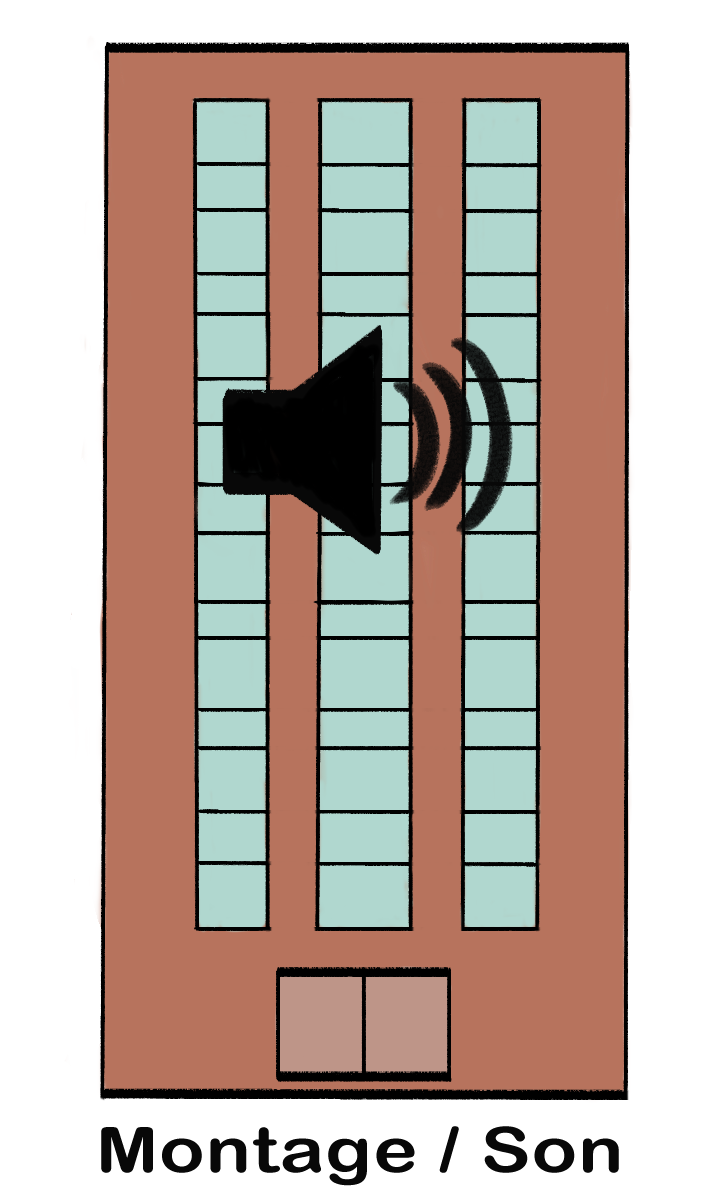
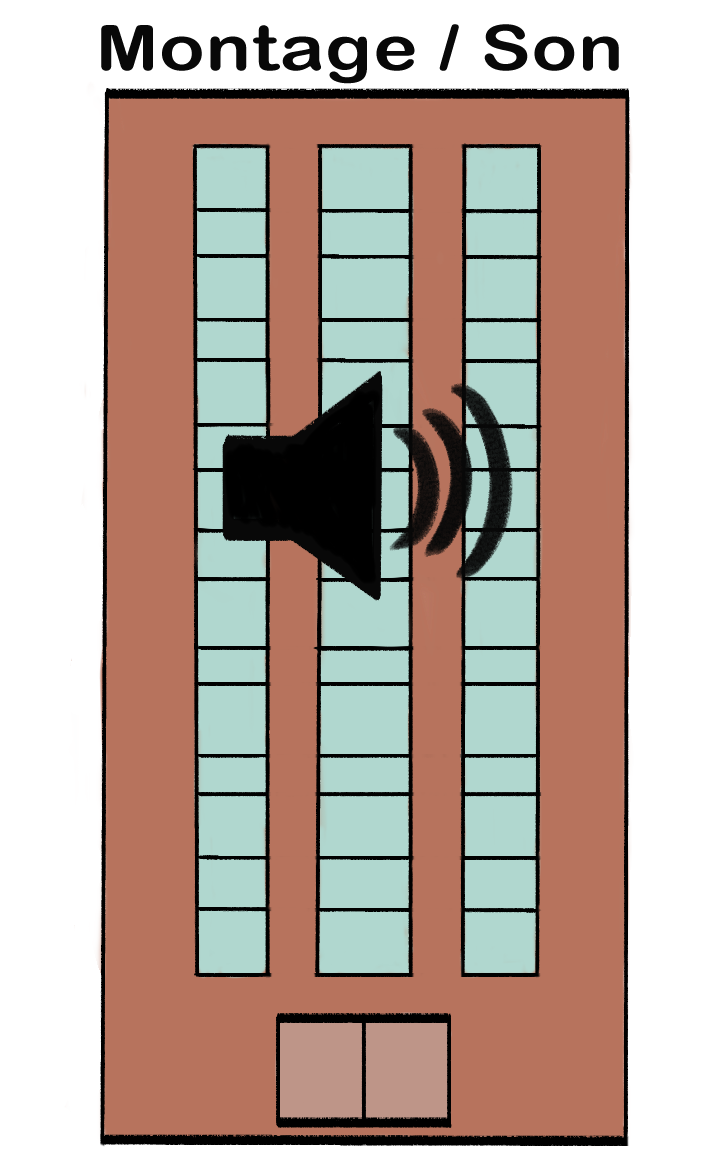
Finalisation de la planète audiovisuel

diff --git a/projet-astronommi/code_principal/autres_pages/planete_audio/assets/styles.css b/projet-astronommi/code_principal/autres_pages/planete_audio/assets/styles.css
@@ -376,13 +376,17 @@ body {
 
 /* Gérer le reste */
 
-.fusee{
+/* Première slide avec fusée et perso */
 
-    /* overflow: hidden;
-    height: 300vh; */
-    height:120vh;
-    width: 30vw;
-    position: absolute;
+.slide-1{
+    width: 100vw;
+    height: 100vh;
+    display: flex;
+    flex-direction: row;
+}
+
+.fusee{
+    width: 35vw;
     bottom: 25px;
     z-index: 3;
 }
@@ -392,79 +396,119 @@ body {
     color: white;
     text-shadow: 3px 3px #610000;
     font-size: 2.5rem;
-    top: 1vh;
+    top: 2vh;
     left: 30vw;
     z-index: 3;
     height: 200px;
 }
-.presentation{
-    color: #fff;
-    font-size: 0.6875rem;
-    font-family: Arial, Helvetica, sans-serif;
+
+.slide-1 div{
+    box-sizing: border-box;
     text-align: center;
     display: flex;
-    align-items: center;
     justify-content: center;
-    display: inline-block;
-    width: 45vw;
-    height: 45vh;
-    padding: 10vh;
-    position: absolute;
+    align-items: center;
+    width: max-content;
+    height: max-content;
+    position: relative;
     top: 30vh;
-    left: 30vw;
     z-index: 3;
     border-radius: 72% 28% 70% 50% / 57% 70% 50% 63% ;
     background-color: rgba(26, 0, 0, 0.8);
-
-
     border: #630000a6 solid;
     box-shadow: 0px 0px 50px 15px #630000a6;
+    margin-right: 6vw;
+    padding:1vw;
+            padding: 4vw;
+}
+
+.presentation{
+    color: #fff;
+    font-size: 0.6875rem;
+    font-family: "M PLUS Rounded 1c", sans-serif;
+
+}
+
+@media screen and (min-width: 1400px) {
+    .presentation{
+        font-size: 0.9rem;
+    }
 }
 
 .perso {
     position: relative;
-    top: 27%;
-    left:80vw;
-    bottom: 0;
+    top: 37%;
     z-index: 1;
-    height: 70vh;
+    height: 60vh;
+}
+
+/* Deuxième slide avec batiments son et image */
+
+.slide-2{
+    width: 100vw;
+    height: 100vh;
+    z-index: 5;
 }
 
 .batiments {
     position: relative;
-    margin: 20px;
-    left: 90vw;
-    bottom: 20%;
-    z-index: 1;
-    height: 40vh;
+    /* margin: 20px; */
+    /* left: 90vw; */
+    /* bottom: 20%; */
+    /* z-index: 1; */
+    /* height: 40vh; */
     cursor: pointer;
 }
 
 .son {
-    bottom: 40%;
-    top: 30%;
-    height: 60vh;
+    top: 8%;
+    height: 87vh;
+    margin-left: 15%;
+    width: 31vw;
 }
 
 .image {
-    top: 60%;
-    bottom: 10%;
-    height: 30vh;
+    height: 48vh;
+    margin-left: 27%;
+    top: -1vh;
+    width: 20vw;
+}
+
+/* Troisième slide avec batiments décor, texte et direction */
+
+.slide-3{
+    position: relative;
+    right: 0;
+    width: 120vw;
+    height: 100vh;
+    z-index: 5;
 }
 
 .decor {
-    height: 35vh;
-    top: 57%;
+    height: 41vh;
+    top: 10%;
+}
+
+@media screen and (max-width:1400px) {
+    .decor{
+        top: 5%;
+    }
 }
 
 .texte {
-    top: 40%;
-    height: 50vh;
-    bottom: 10%;
+    top: 15%;
+    width: 30vw;
+    margin-left: 10%;
+}
+
+@media screen and (min-width:1400px) {
+    .texte{
+        top: 18%;
+    }
 }
 
 .direction {
-    top: 55%;
-    right: 50px;
-    height: 40vh;
+    top: 20%;
+    height: 61vh;
+    margin-left: 12vw;
 }

diff --git a/projet-astronommi/code_principal/autres_pages/planete_audio/assets/scroll_horizontal.css b/projet-astronommi/code_principal/autres_pages/planete_audio/assets/scroll_horizontal.css
@@ -7,7 +7,7 @@ body {
 }
 
 .slide {
-    width: 100vw;
+    /* width: 100vw; */
     height: 100vh;
 }
 
@@ -26,7 +26,7 @@ body {
 .blocHorizontal {
     display: flex;
     flex-direction: row;
-    width: 200vw;
+    width: 300vw; /* Définir une certaine largeur au scroll */
     transform: rotate(90deg) translateY(-100vh);
     transform-origin: top left;
 }

diff --git a/projet-astronommi/code_principal/autres_pages/planete_audio/index.php b/projet-astronommi/code_principal/autres_pages/planete_audio/index.php
@@ -35,17 +35,39 @@
         <!--Ces deux premières div permettant de faire le scroll horizontal-->
         <div class="blocHorizontal">
             <!-- Elements sur la planètes (batiments, personnages etc) -->
-            <img src="assets/img/fusee.png" alt="" class="fusee">
-            <h1 class="destination">Destination :<br>Planète Audiovisuel</h1>
-            <p class="presentation">Lorem ipsum dolor sit amet, consectetur adipisicing elit. Sunt fuga labore temporibus, placeat impedit nemo voluptatem odio fugit mollitia nobis, doloremque harum ut error distinctio. Quia atque molestiae dolorem facilis? Sunt fuga labore temporibus, placeat impedit nemo voluptatem odio fugit mollitia nobis, doloremque harum ut error distinctio. Quia atque molestiae dolorem facilis? Sunt fuga labore temporibus, placeat impedit nemo voluptatem odio fugit mollitia nobis, doloremque harum ut error distinctio. Quia atque molestiae dolorem facilis?</p>
-            <div><img src="assets/img/perso_audiovisuel.png" alt="" class="perso"></div>
-            <a onclick="on()" id="son"><img src="assets/img/batiment-son.png" alt="" class="batiments son" id="son"></a>
-            <a onclick="on()" id="image"><img src="assets/img/image.png" alt="" class="batiments image"></a>
-            <a onclick="on()" id="decor"><img src="assets/img/Decor.png" alt="" class="batiments decor"></a>
-            <a onclick="on()" id="texte"><img src="assets/img/texte.png" alt="" class="batiments texte"></a>
-            <a onclick="on()" id="direction"><img src="assets/img/direction.png" alt="" class="batiments direction"></a>
+            <div class="slide-1">
+                <img src="assets/img/fusee.png" alt="" class="fusee">
+                <h1 class="destination">Destination :<br>Planète Audiovisuel</h1>
+                <div>
+                <p class="presentation">Bienvenue sur la planète audiovisuelle !<br>
+                Ici, vous pourrez découvrir différents métiers qui permettent d’exercer dans ce domaine.
+                Mais au final, c’est quoi l’audiovisuel ?<br>L’audiovisuel est un domaine qui se réfère à tout travail qui utilise à la fois, du son et de l'image, et qui englobe donc les équipements et les procédés utilisés pour la télévision, le cinéma,ou encore la vidéo.
+                    Il peut aussi être utilisé pour le multimédia.
+                    L’audiovisuel est constitué de différentes étapes qui sont l’écriture, le développement, la
+                    préproduction, la production et la postproduction. Ainsi, pour toutes ces étapes, il existe
+                    plusieurs métiers différents qui sont mis en jeu.
+                    Pour faire bref, ce domaine en regroupe plusieurs autres tels que le cinéma, l’animation, les effets
+                    visuels, le son et l’image qui seront présentés.
+                    En continuant votre aventure sur ma planète, vous verrez les différents métiers du domaine de
+                    l'audiovisuel.<br>
+                    Bonne découverte !
+                </p>
+                </div>
+                <img src="assets/img/perso_audiovisuel.png" alt="" class="perso">
+            </div>
 
+            <div class="slide-2">
+                <a onclick="on()" id="image"><img src="assets/img/image.png" alt="" class="batiments image"></a>
+                <a onclick="on()" id="son"><img src="assets/img/batiment-son.png" alt="" class="batiments son"
+                        id="son"></a>
+            </div>
 
+            <div class="slide-3">
+                <a onclick="on()" id="decor"><img src="assets/img/Decor.png" alt="" class="batiments decor"></a>
+                <a onclick="on()" id="texte"><img src="assets/img/texte.png" alt="" class="batiments texte"></a>
+                <a onclick="on()" id="direction"><img src="assets/img/direction.png" alt=""
+                        class="batiments direction"></a>
+            </div>
 
             <div class="slide">
                 <div class="layer layer-0"></div>
